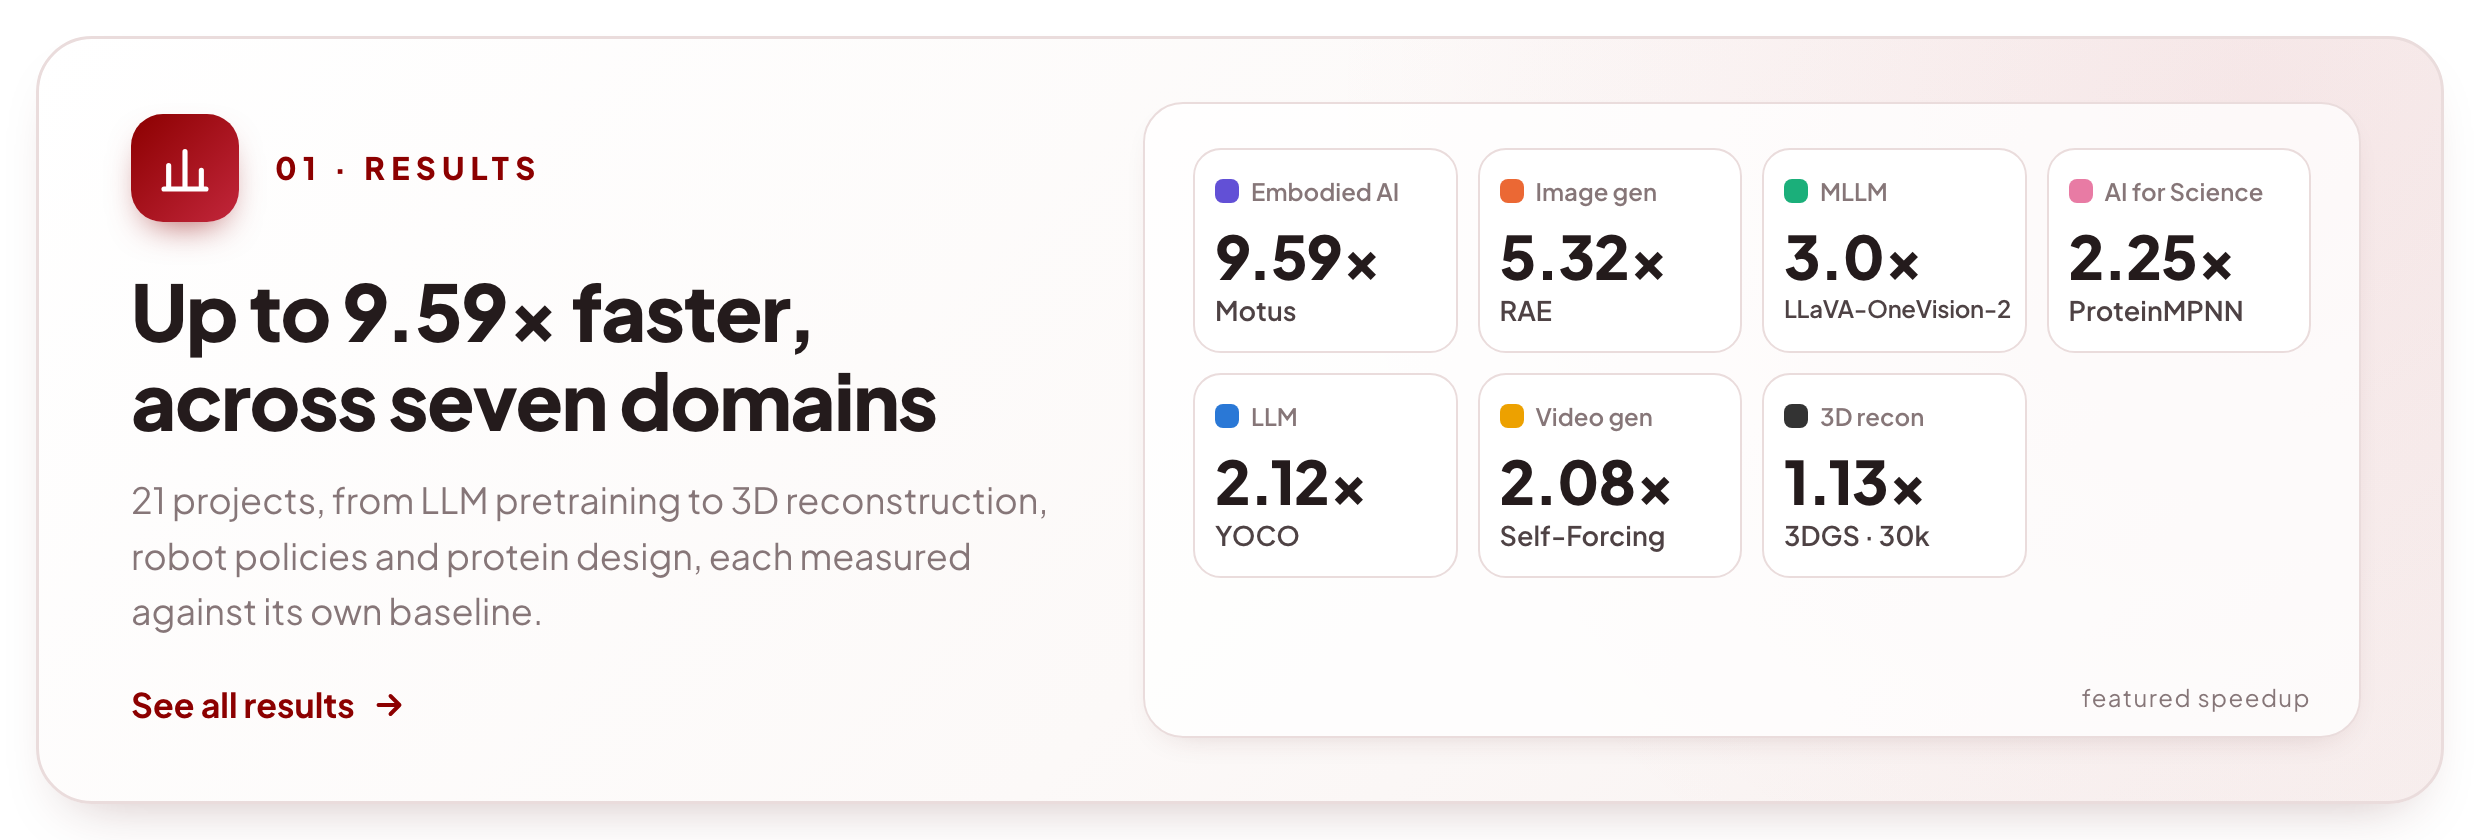
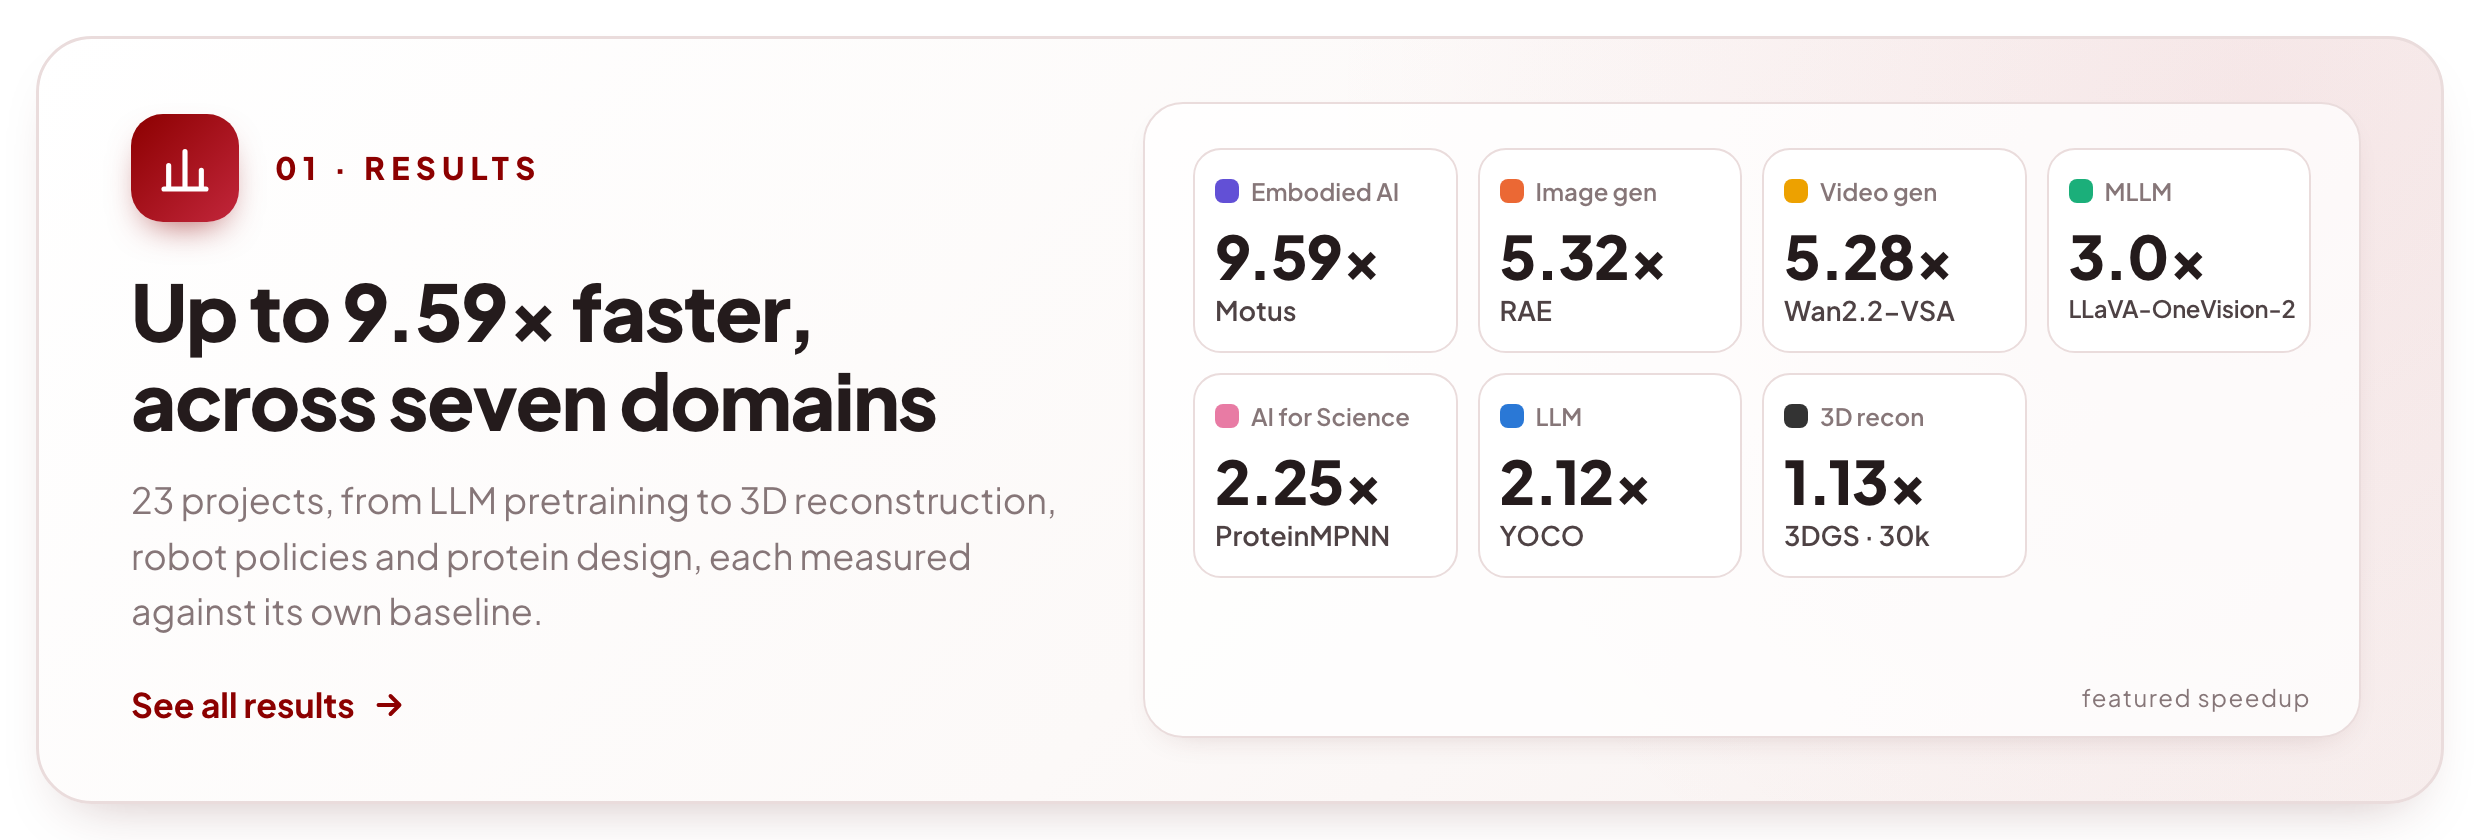
docs: redraw the results card for 23 projects
The card now says 23 projects, and its Video gen tile shows Wan2.2-VSA
(5.28×) in place of Self-Forcing (2.08×), sorted with the other domains
by speedup. Regenerated with render.py card-results.

diff --git a/docs/assets/readme/render.py b/docs/assets/readme/render.py
@@ -38,10 +38,10 @@ def icon(name, size=24, stroke=2.2):
 DOMAINS = [
     ("emb", "#6250d6", "Embodied AI", "具身智能", "Motus", "9.59×"),
     ("img", "#eb6834", "Image gen", "图像生成", "RAE", "5.32×"),
+    ("vid", "#eda100", "Video gen", "视频生成", "Wan2.2-VSA", "5.28×"),
     ("mllm", "#1baf7a", "MLLM", "多模态模型", "LLaVA-OneVision-2", "3.0×"),
     ("sci", "#e87ba4", "AI for Science", "AI for Science", "ProteinMPNN", "2.25×"),
     ("llm", "#2a78d6", "LLM", "语言模型", "YOCO", "2.12×"),
-    ("vid", "#eda100", "Video gen", "视频生成", "Self-Forcing", "2.08×"),
     ("3d", "#333333", "3D recon", "三维重建", "3DGS · 30k", "1.13×"),
 ]
 
@@ -58,7 +58,7 @@ T = {
                     ("bench-blog", "book", "Read the blog post", "light")],
         "cards": [
             ("results", "chart", "01 · RESULTS", "Up to 9.59× faster,<br>across seven domains",
-             "21 projects, from LLM pretraining to 3D reconstruction, robot policies and protein design, each measured against its own baseline.",
+             "23 projects, from LLM pretraining to 3D reconstruction, robot policies and protein design, each measured against its own baseline.",
              "See all results"),
             ("prompt", "terminal", "02 · ONE PROMPT", "Paste one prompt,<br>get a verified speedup",
              "Open Codex or Claude Code on a GPU host. The agent finds the code, asks only what is yours to decide, and does the rest.",
@@ -134,7 +134,7 @@ T = {
                     ("bench-blog", "book", "阅读博客", "light")],
         "cards": [
             ("results", "chart", "01 · 结果", "最高 9.59× 加速，<br>覆盖七个领域",
-             "21 个项目，覆盖大模型预训练、三维重建、机器人策略和蛋白质设计，每个都与自身的基线对比。",
+             "23 个项目，覆盖大模型预训练、三维重建、机器人策略和蛋白质设计，每个都与自身的基线对比。",
              "查看全部结果"),
             ("prompt", "terminal", "02 · 一段提示词", "粘贴一段话，<br>拿到验证过的加速",
              "在 GPU 主机上打开 Codex 或 Claude Code。agent 自己找到代码，只问需要你决定的事，其余全部自己完成。",
